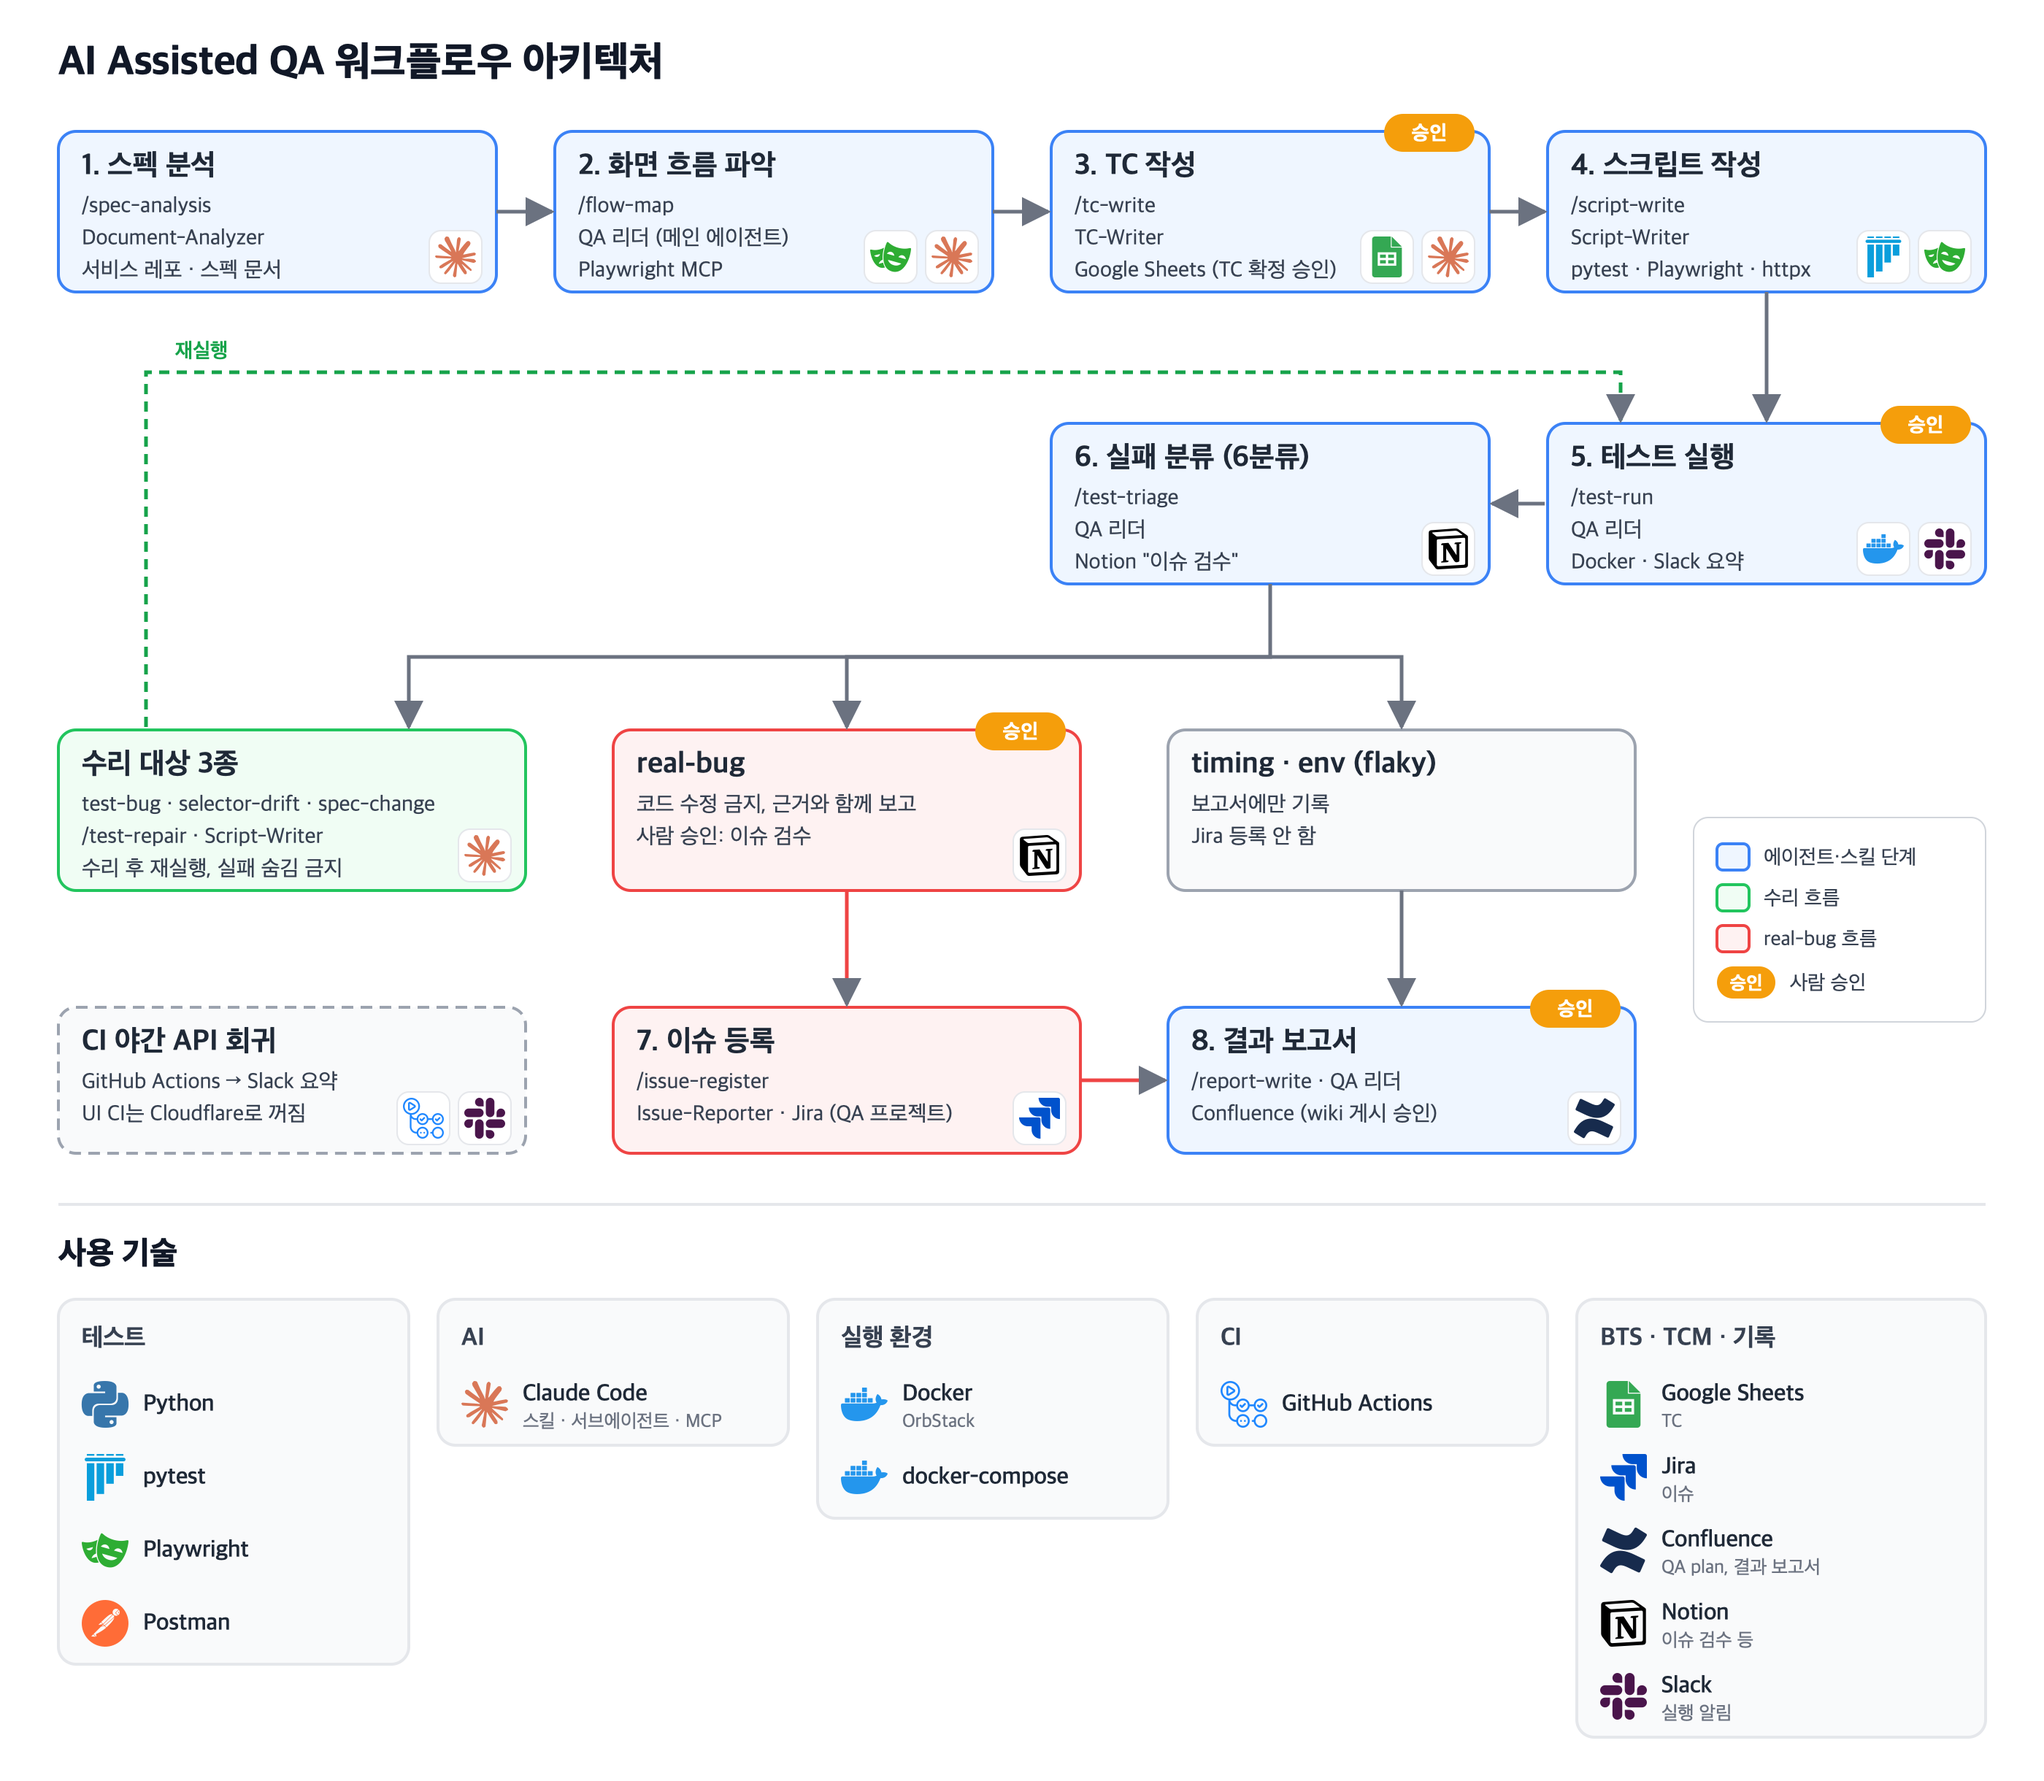
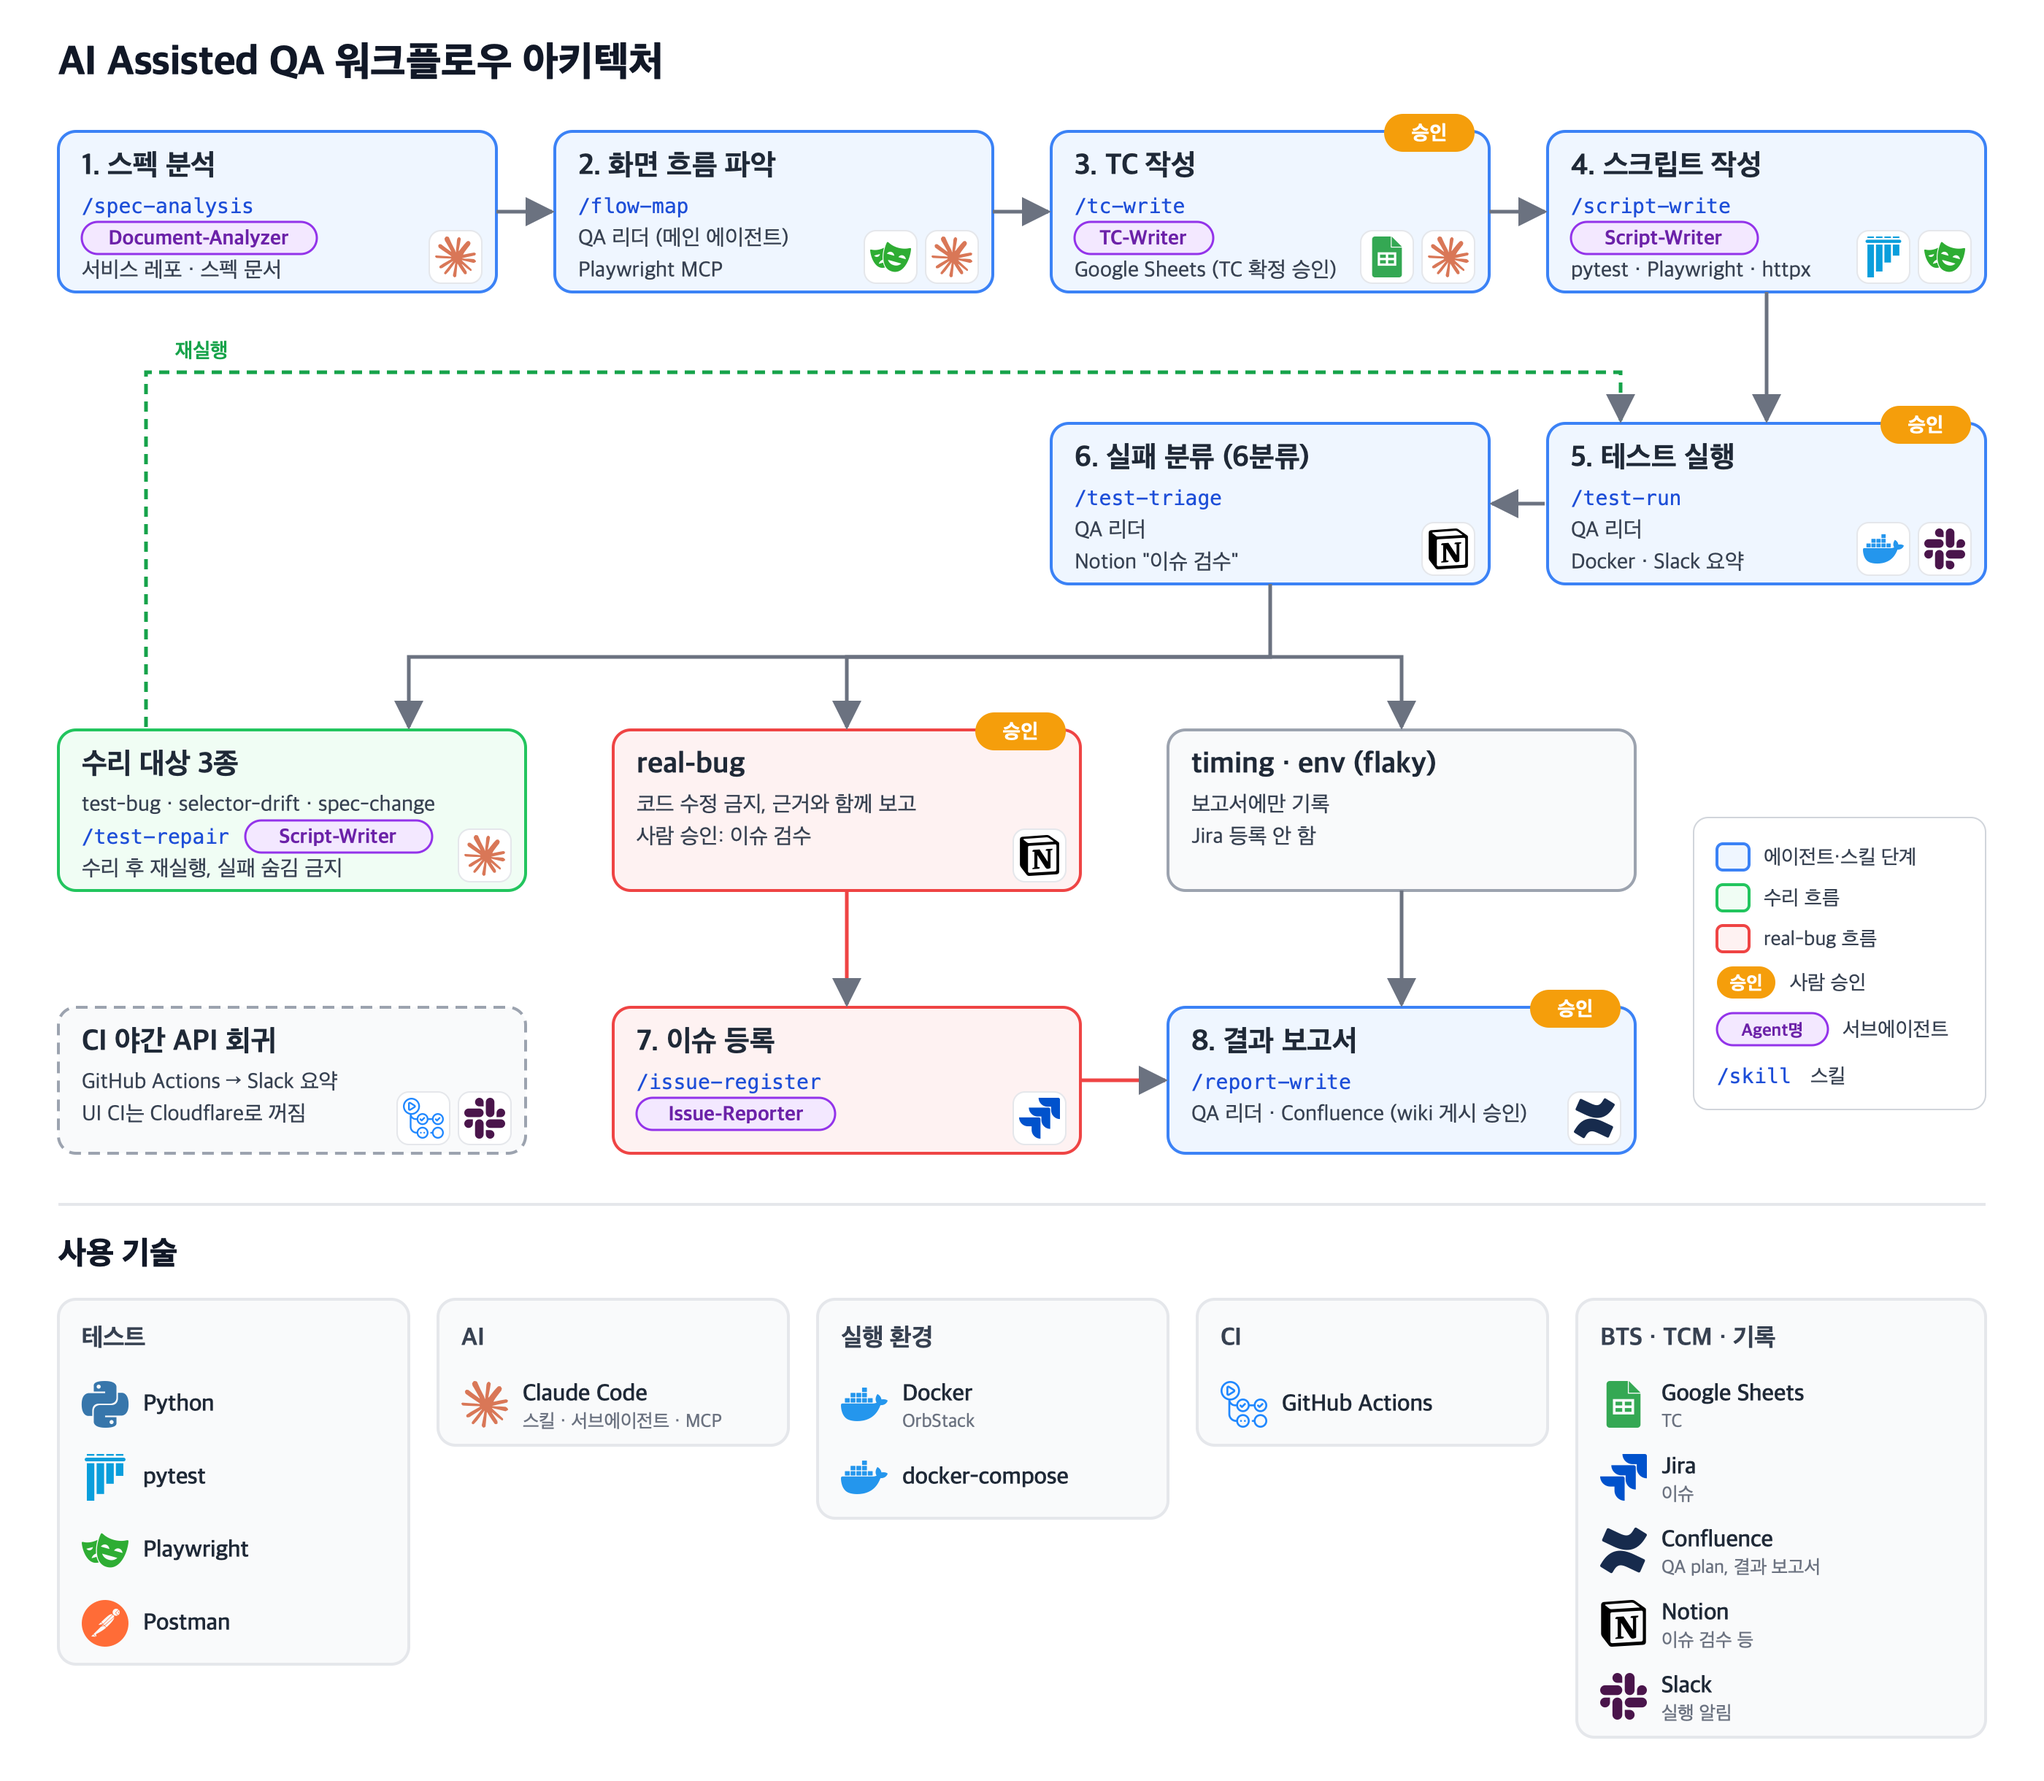
docs: 실패 분류에 quarantine 기준 추가, 워크플로우 이미지 교체
- test-triage: 원인 미상 간헐 실패 2회 이상 시 격리 후보, 시간 초과는 trace로 env 여부 확인
- 아키텍처 이미지에 서브에이전트·스킬 표시 반영

diff --git a/.claude/skills/test-triage/SKILL.md b/.claude/skills/test-triage/SKILL.md
@@ -53,6 +53,12 @@ model: opus
 - 재실행하지 않는 것: 로그인 실패 TC(계정 잠금 위험)
 - 승인 후 재실행하는 것: 결제 확정 TC(지울 수 없는 인보이스 생성). trace로 먼저 판단한다.
 
+격리(quarantine)
+- 같은 TC가 원인을 찾지 못한 채 서로 다른 실행에서 2회 이상 간헐 실패하면 `quarantine` 마커 후보로 올린다. 마커는 사용자 승인 후 붙이고 백로그에 원인 조사 항목으로 등록한다.
+- 격리 TC도 실행하고 결과를 보고서에 따로 적는다. 원인을 찾으면 그 분류대로 처리하고 마커를 뗀다.
+- 격리하지 않는 것: real-bug로 확인된 실패(간헐 결함 포함), 1회만 실패한 TC. 격리는 원인 미상인 실패를 잠시 떼어 두는 것이지 결함을 숨기는 수단이 아니다.
+- 시간 초과를 env로 정하기 전에 trace에서 화면 상태를 본다. 앞 TC가 남긴 상태(계정 잠금 등)나 요소 겹침으로 클릭이 막혔으면 env가 아니다(결함 주입 #21, #45 사례, `.claude/docs/fault-injection/with-bugs-result.md`).
+
 먼저 의심할 알려진 원인(관찰 대기)
 - Billing 단계 입력 직후 우편번호 조회 응답 대기 시간 초과(UI_34~37, UI_86~89): 계정 주소 자동 채움이 늦게 와서 입력한 Country, Postcode, House number를 덮어썼을 수 있다(timing). trace에서 Billing 진입 뒤 `GET /users/me` 응답과 입력 시각을 비교한다. 같은 원인을 UI_33에서 확인하고 고친 기록과 수리 방향은 `.claude/docs/fault-injection/repair-report.md`에 있다(2026-10-17, 이 TC들에서는 아직 관찰되지 않음).
 
